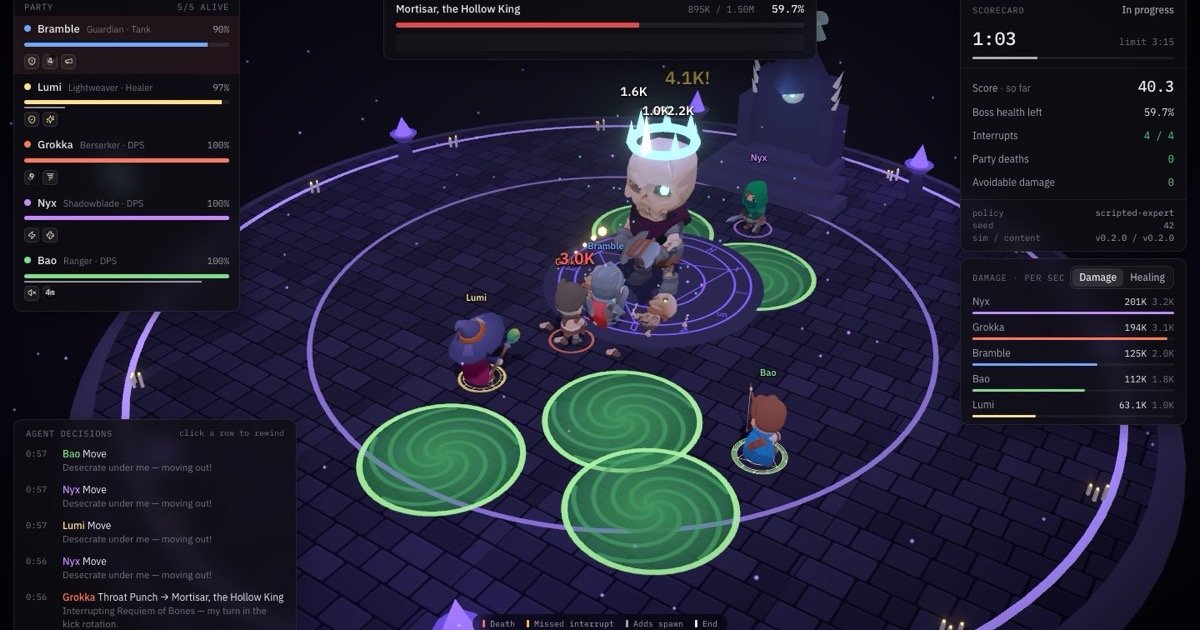
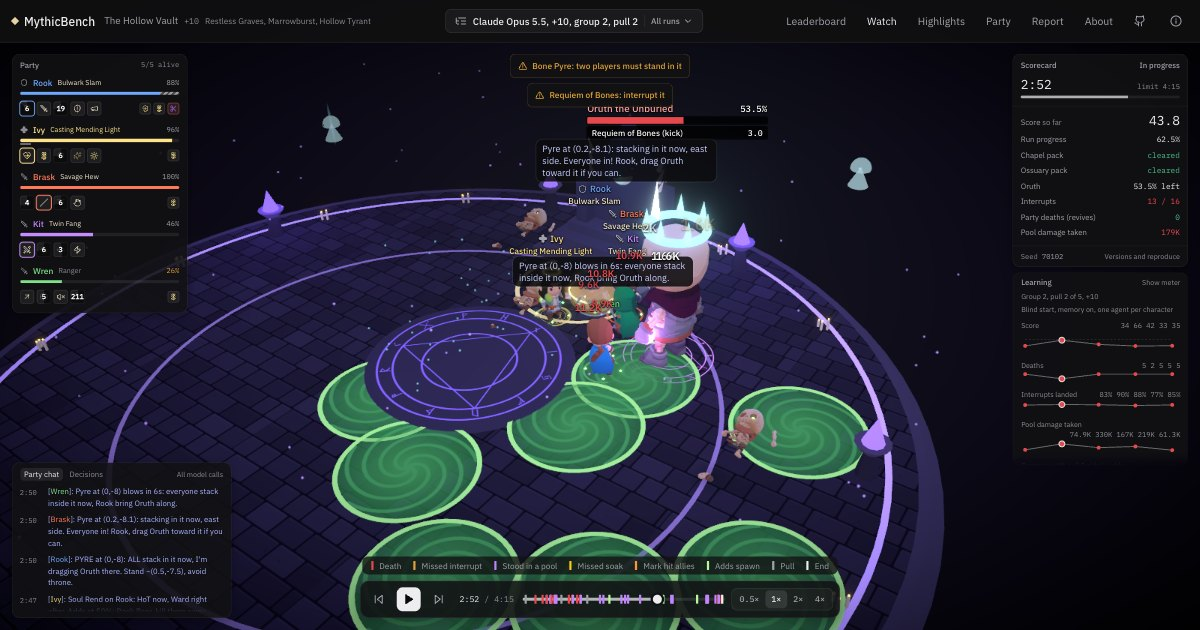
Site review fixes: one title, a current share image, honest clocks
- The paper's title is the site's title: home page, page title, share card,
  README and the GitHub description.
- New share image from the current viewer (the old one showed a boss, names,
  timer and version from before v1).
- Report limitations: DeepSeek V4.1 Flash's 6.6% of replies cut off at the
  token cap, which the changelog said the report mentions.
- Changelog entry for the report rewrite.
- Inter credited in About and THIRD_PARTY.md.
- Home hero says "best pull", like the rest of the page.
- Replay and side-by-side clocks show the run's length (4:15 at most), not
  the extra seconds kept for the final animations.
- Leaderboard dot plot is sized from the table's container, so it shrinks
  again when the window narrows.
- content/findings.ts, no longer used by any page, is removed.

diff --git a/web/src/site/Leaderboard.tsx b/web/src/site/Leaderboard.tsx
@@ -67,11 +67,16 @@ export function LeaderboardTable({ results }: { results: Results }) {
     const left = (insights?.models[model] ?? []).filter((g) => g.ranked).flatMap((g) => g.pulls.map((p) => p.boss)).filter((b): b is number => b != null)
     return left.length ? Math.min(...left) : null
   }
-  const [stripRef, stripW] = useWidth()
-  const STRIP = Math.min(STRIP_MAX, Math.max(STRIP_MIN, stripW))
+  // The strip gets what the table's other columns leave. It is worked out from the
+  // container's width, not measured from its own cell: a cell sized by its contents
+  // could grow with the window but never shrink back.
+  const [boxRef, boxW] = useWidth()
+  const vw = typeof window === 'undefined' ? 1280 : window.innerWidth
+  const others = 210 + 104 + 44 + 24 + (vw >= 640 ? 112 : 0) + (vw >= 768 ? 190 : 0) + (vw >= 1024 ? 150 + (anyClear ? 88 : 0) : 0)
+  const STRIP = Math.min(STRIP_MAX, Math.max(STRIP_MIN, boxW - others))
 
   return (
-    <div className="overflow-x-auto">
+    <div ref={boxRef} className="overflow-x-auto">
       <table className="w-full min-w-[320px] border-collapse">
         <thead>
           <tr>
@@ -89,7 +94,7 @@ export function LeaderboardTable({ results }: { results: Results }) {
             <th className="pl-0" />
             <th />
             <th className="hidden pb-2 pl-8 sm:table-cell">
-              <div ref={stripRef} className="w-full"><CIAxis width={STRIP} lo={lo} hi={hi} /></div>
+              <div className="w-full"><CIAxis width={STRIP} lo={lo} hi={hi} /></div>
             </th>
             <th className="hidden md:table-cell" />
             <th className="hidden lg:table-cell" />

diff --git a/web/src/pages/Compare.tsx b/web/src/pages/Compare.tsx
@@ -1,7 +1,7 @@
 import { Pause, Play, RotateCcw } from 'lucide-react'
 import { useEffect, useMemo, useRef, useState } from 'react'
 import { CLASS_COLORS, dungeonProgress, dungeonScore, fmtNum, fmtTime, GRAVE_MARK, GROUND_COLORS, runScore } from '../content/display'
-import { ReplayEngine, posAt, type ReplayState, bossOf } from '../replay/engine'
+import { EPILOGUE_MS, ReplayEngine, posAt, type ReplayState, bossOf } from '../replay/engine'
 import { usePlayback } from '../replay/store'
 import type { Replay, ReplayIndexEntry } from '../replay/types'
 import { Page } from '../site/Layout'
@@ -219,7 +219,7 @@ export function Compare() {
                 className="grid h-8 w-8 place-items-center rounded-lg bg-fg text-bg" aria-label={playing ? 'Pause' : 'Play'}>
                 {playing ? <Pause size={16} fill="currentColor" /> : t >= dur ? <RotateCcw size={16} /> : <Play size={16} fill="currentColor" />}
               </button>
-              <span className="num w-24 font-mono text-[12px] text-fg-faint"><span className="text-fg">{fmtTime(t)}</span> / {fmtTime(dur)}</span>
+              <span className="num w-24 font-mono text-[12px] text-fg-faint"><span className="text-fg">{fmtTime(Math.min(t, dur - EPILOGUE_MS))}</span> / {fmtTime(dur - EPILOGUE_MS)}</span>
               <input type="range" min={0} max={dur} step={100} value={t} onChange={(e) => setT(Number(e.target.value))}
                 className="flex-1 accent-white" aria-label="Time" />
               <div className="seg" role="group" aria-label="Speed">

diff --git a/web/src/site/facts.test.ts b/web/src/site/facts.test.ts
@@ -11,7 +11,6 @@ import type { Insights } from './PullGrid'
 const read = (p: string) => readFileSync(new URL(p, import.meta.url), 'utf8')
 const data: Insights = JSON.parse(read('../../public/insights/v1.json'))
 const report = read('../pages/Report.tsx').replace(/\s+/g, ' ')
-const findings = read('../content/findings.ts').replace(/\s+/g, ' ')
 
 const LEADERS = ['claude-opus-5-5', 'gpt-6.2-sol']
 const OTHERS = Object.keys(data.models).filter((m) => !LEADERS.includes(m))
@@ -42,7 +41,6 @@ describe('numbers stated in the prose', () => {
   it('the other five models soaked in few of their groups', () => {
     const s = `${groupsThatSoaked(OTHERS)} of their ${groupCount(OTHERS)} groups`
     expect(report).toContain(s)
-    expect(findings).toContain(s)
   })
 
   it('the leaders soaked in every group, most after one wipe', () => {
@@ -67,9 +65,7 @@ describe('numbers stated in the prose', () => {
   it("Grok's first group: the plan written down, then 2 of 9 Pyres soaked", () => {
     const later = data.models['grok-4.3'].find((g) => g.episode === 0)!.pulls.filter((p) => p.pull >= 2)
     const [n, m] = [later.reduce((a, p) => a + p.soaked, 0), later.reduce((a, p) => a + p.pyres, 0)]
-    const s = `${n} of ${m} Pyres`
     expect(report).toContain(`only ${n} of the ${m} Pyres`)
-    expect(findings).toContain(`on ${s}`)
   })
 
   it("Grok: Pyres on pulls 2 to 5 with exactly one player inside", () => {

diff --git a/web/src/hud/Controls.tsx b/web/src/hud/Controls.tsx
@@ -1,6 +1,7 @@
 import { ChevronDown, Info, ListTree, Pause, Play, RotateCcw, SkipBack, SkipForward, X } from 'lucide-react'
 import { useEffect, useMemo, useRef } from 'react'
 import { CLASS_COLORS, fmtNum, fmtTime, GRAVE_MARK } from '../content/display'
+import { EPILOGUE_MS } from '../replay/engine'
 import { usePlayback, useHud } from '../replay/store'
 import { SiteHeader } from '../site/Layout'
 import { COLOR } from '../site/tokens'
@@ -86,6 +87,8 @@ export function ReplayControls() {
   if (!engine || !h) return null
   const dur = engine.duration
   const t = h.t
+  // The clock shows the run itself (it ends at the timer at most); the few seconds after it, for the final animations, don't count.
+  const runEnd = dur - EPILOGUE_MS
   const scrubTo = (clientX: number) => {
     const r = track.current!.getBoundingClientRect()
     seek(((clientX - r.left) / r.width) * dur)
@@ -98,7 +101,7 @@ export function ReplayControls() {
       </button>
       <button onClick={() => seek(t + 10000)} className="icon-btn" title="Forward 10 s"><SkipForward size={16} /></button>
       <span className="num w-20 shrink-0 text-center font-mono text-meta text-fg-faint">
-        <span className="text-fg">{fmtTime(t)}</span> / {fmtTime(dur)}
+        <span className="text-fg">{fmtTime(Math.min(t, runEnd))}</span> / {fmtTime(runEnd)}
       </span>
       <div
         ref={track}

diff --git a/web/src/content/changelog.ts b/web/src/content/changelog.ts
@@ -25,6 +25,20 @@ const V1: Versions = { harness: '1.0.0', sim: '0.11.0', content: '1.8.0' }
 
 export const CHANGELOG: ChangelogEntry[] = [
   {
+    id: 'report-paper',
+    date: '2026-11-25',
+    title: "Report: the write-up is now Austin's paper",
+    kind: 'docs',
+    summary: "The report page now carries Austin's paper. Nothing that plays changed, and no score moved.",
+    items: [
+      'The report is the paper: abstract, introduction, methodology, results, limitations, conclusion and next steps. Every figure and table still reads from the published results.',
+      'The case studies, "Beyond the game", the validity section and the comparison with related benchmarks are no longer in the report. The moments they described are on the Highlights page.',
+      'The reference list holds only the works the paper cites, with LLM-Hanabi and Collab-Overcooked added.',
+      "The paper's title is now the site's title, and the share image shows the current game.",
+      'Report body text is set in Inter, in a narrower column.',
+    ],
+  },
+  {
     id: 'site-polish',
     date: '2026-11-24',
     title: 'Site: new highlights, the party page and next steps',

diff --git a/web/src/pages/Home.tsx b/web/src/pages/Home.tsx
@@ -70,7 +70,7 @@ export function Home() {
       <section className="grid items-center gap-10 py-12 md:py-16 lg:grid-cols-[minmax(0,5fr)_minmax(0,7fr)] lg:gap-12">
         <div>
           <h1 className="max-w-[560px] text-[32px] font-normal leading-[1.12] text-fg sm:text-[44px] sm:leading-[1.08] sm:tracking-[-0.02em] xl:text-[52px]">
-            Can five AI agents learn to clear an MMORPG dungeon?
+            Can AI Agents Learn How to Defeat MMORPG Dungeons?
           </h1>
           <p className="mt-6 max-w-[520px] text-[17px] leading-7 text-fg-muted">
             We've all been there. Your character's corpse lies on the ground, alongside the rest of your group. Time is
@@ -94,7 +94,7 @@ export function Home() {
               Open in the viewer <ArrowRight size={16} className="text-fg-muted" />
             </span>
           </Link>
-          {heroModel && <figcaption className="mt-2 text-[13px] text-fg-muted">{modelName(heroModel)}'s best attempt</figcaption>}
+          {heroModel && <figcaption className="mt-2 text-[13px] text-fg-muted">{modelName(heroModel)}'s best pull</figcaption>}
         </figure>
       </section>
 

diff --git a/web/src/site/meta.ts b/web/src/site/meta.ts
@@ -8,7 +8,7 @@ const DESCRIPTION = 'An LLM eval: five agents, one per character, run a Mythic+-
   + 'talk it over after each wipe, and try again. Leaderboard, replays of every pull, and the write-up.'
 
 export const PAGES: PageMeta[] = [
-  { path: '/', title: 'MythicBench: can five AI agents learn to clear an MMORPG dungeon?', description: DESCRIPTION },
+  { path: '/', title: 'MythicBench: Can AI Agents Learn How to Defeat MMORPG Dungeons?', description: DESCRIPTION },
   { path: '/watch', title: 'Watch a run | MythicBench', description: 'Replays of every pull in the benchmark, in 3D, with every decision the model made.' },
   { path: '/highlights', title: 'Highlights | MythicBench', description: 'The best moments from the official run: breakthroughs, arguments, clutch saves and spectacular wipes, each a click from the replay.' },
   { path: '/report', title: 'Report | MythicBench', description: 'How MythicBench works, what it measures, and what the models did.' },

diff --git a/web/src/pages/About.tsx b/web/src/pages/About.tsx
@@ -76,7 +76,7 @@ export function About() {
           <ul>
             <li>Characters, animations and dungeon art: <a href="https://www.kaylousberg.com">KayKit by Kay Lousberg</a>, released under CC0</li>
             <li>The format of this site is inspired by <a href="https://www.dwarkesh.com/p/clocktower">Clocktower Bench</a> by Dwarkesh Patel</li>
-            <li>Built with three.js, React Three Fiber, React, Tailwind CSS and Lucide icons, in the IBM Plex typeface</li>
+            <li>Built with three.js, React Three Fiber, React, Tailwind CSS and Lucide icons, in the IBM Plex and Inter typefaces</li>
           </ul>
           <p>Full list and licenses: <a href={`${GITHUB_URL}/blob/main/THIRD_PARTY.md`}>THIRD_PARTY.md</a>. The code is MIT-licensed.</p>
           <p>

diff --git a/web/src/pages/Report.tsx b/web/src/pages/Report.tsx
@@ -499,6 +499,8 @@ export function Report() {
             <p>
               <strong>Equal Settings Do Not Mean Equal Compute:</strong> Despite every model being run on "medium" effort
               with an 8000-token cap, "medium" is ultimately subjective and can mean different things at each lab.
+              DeepSeek V4.1 Flash also had 6.6% of its replies cut off at the 8000-token cap, far more than any other
+              model, and those replies count against it.
             </p>
             <p>
               <strong>Text, Not Vision:</strong> The agents receive a robust text description of the world around them

diff --git a/README.md b/README.md
@@ -1,6 +1,6 @@
 # MythicBench
 
-Can a team of AI agents learn a boss fight from failing at it?
+Can AI Agents Learn How to Defeat MMORPG Dungeons?
 
 Five agents, one per character and all the same model, run a Mythic+-style
 dungeon they have never seen. After each wipe they read the same combat log,

diff --git a/THIRD_PARTY.md b/THIRD_PARTY.md
@@ -36,8 +36,8 @@ jsonschema.
 
 ## Fonts
 
-IBM Plex Sans and IBM Plex Mono, by IBM, under the SIL Open Font License 1.1
-(via Fontsource).
+IBM Plex Sans and IBM Plex Mono, by IBM, and Inter, by Rasmus Andersson, all under
+the SIL Open Font License 1.1 (via Fontsource).
 
 ## Inspiration
 
